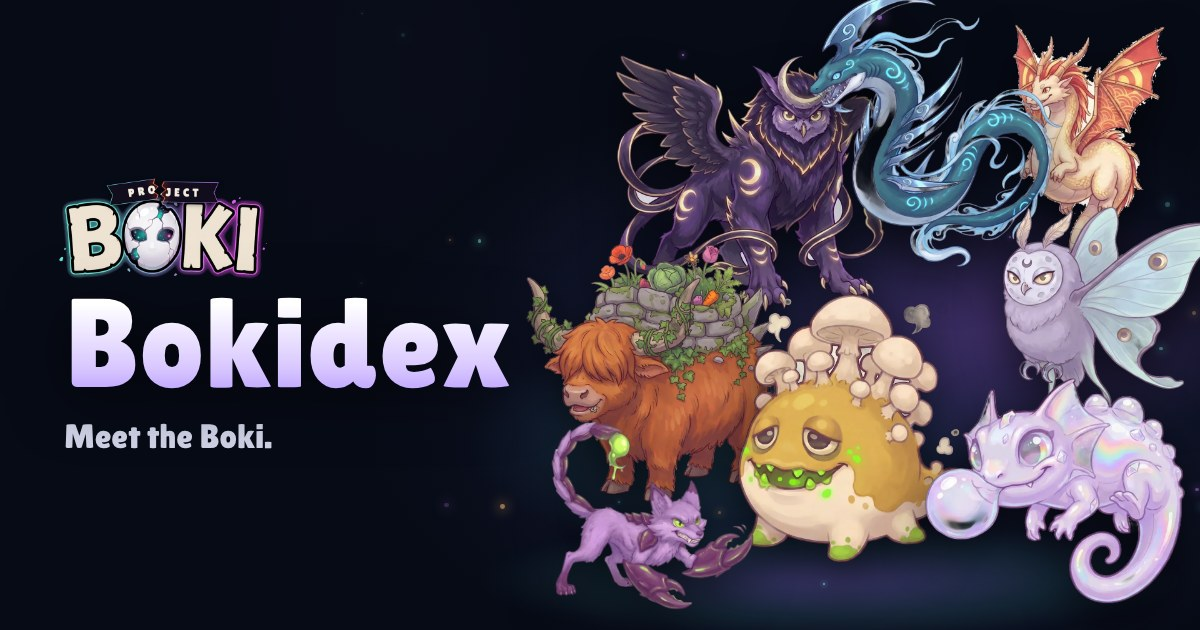
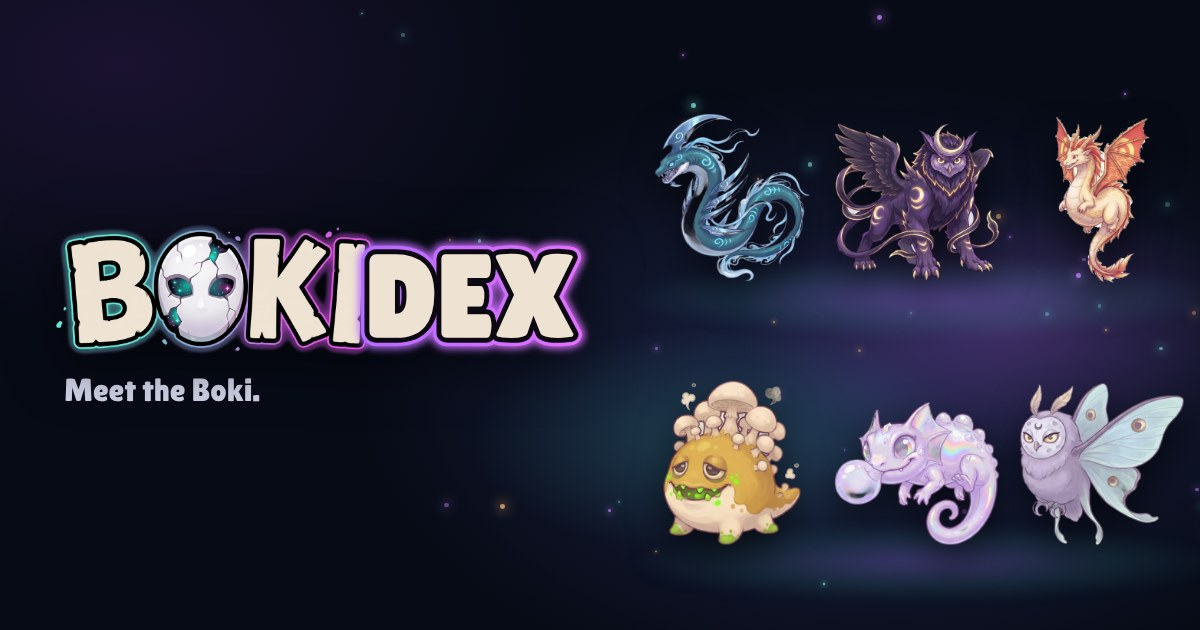
Bokidex share image: BOKIDEX wordmark, clean Boki grid
Claude-Session: https://claude.ai/code/session_015vSSPmpJoF22Rm1LS1od6V

diff --git a/tools/og/bokidex.html b/tools/og/bokidex.html
@@ -9,35 +9,38 @@ html,body{margin:0;background:#070b16}
   radial-gradient(ellipse 30% 26% at 60% 70%, rgba(79,216,203,.20), transparent 70%),
   radial-gradient(ellipse 32% 30% at 84% 52%, rgba(195,107,255,.24), transparent 70%)}
 .em i{position:absolute;border-radius:50%;width:var(--s);height:var(--s);background:rgb(var(--c));box-shadow:0 0 calc(var(--s)*2.4) calc(var(--s)*.5) rgba(var(--c),.6)}
-.ground{position:absolute;left:470px;top:520px;width:720px;height:120px;border-radius:50%;background:radial-gradient(ellipse at center, rgba(160,130,255,.30), rgba(79,216,203,.10) 45%, transparent 70%);filter:blur(6px)}
-.b{position:absolute;filter:drop-shadow(0 18px 22px rgba(0,0,0,.6))}
+.ground{position:absolute;left:620px;width:610px;height:80px;border-radius:50%;background:radial-gradient(ellipse at center, rgba(160,130,255,.30), rgba(79,216,203,.10) 45%, transparent 70%);filter:blur(6px)}
+.cell{position:absolute;width:184px;height:270px;display:flex;align-items:flex-end;justify-content:center}
+.cell img{max-width:100%;max-height:100%;object-fit:contain;filter:drop-shadow(0 16px 18px rgba(0,0,0,.6))}
 .left{position:absolute;left:64px;top:0;bottom:0;display:flex;flex-direction:column;justify-content:center;z-index:5}
-.lock{width:210px;margin:0 0 6px -6px}
-h1{margin:0;font-weight:400;font-size:126px;line-height:.9;letter-spacing:.005em;
-  background:linear-gradient(180deg,#ffffff 15%,#d9c8ff 70%,#b79bff 100%);-webkit-background-clip:text;background-clip:text;color:transparent;
-  filter:drop-shadow(0 10px 30px rgba(0,0,0,.6))}
-.sub{margin-top:16px;font-size:34px;color:#cfd3e6}
-.fade{position:absolute;left:0;top:0;bottom:0;width:560px;background:linear-gradient(90deg,#070b16 45%,rgba(7,11,22,.7) 70%,transparent);z-index:4}
+.lock{position:absolute;left:56px;top:40px;width:120px;z-index:6}
+h1.word{margin:0 0 0 -8px;display:flex;align-items:center;filter:drop-shadow(0 12px 28px rgba(0,0,0,.55))}
+.word .wm{height:134px;width:auto;display:block}
+.word .dex{height:122px;width:auto;margin-left:-16px;margin-top:4px;overflow:visible}
+.sub{margin-top:14px;font-size:32px;color:#cfd3e6}
+.fade{position:absolute;left:0;top:0;bottom:0;width:0;background:linear-gradient(90deg,#070b16 45%,rgba(7,11,22,.7) 70%,transparent);z-index:4}
 </style></head><body>
 <div class="og" id="og">
   <div class="glow"></div>
   <div class="em" id="em"></div>
-  <div class="ground"></div>
-  <!-- back row -->
-  <img class="b" src="../../assets/img/boki-front/eclipsowl-960.webp" style="left:600px;top:40px;width:300px;opacity:.95">
-  <img class="b" src="../../assets/img/boki-front/dragonkite-960.webp" style="left:940px;top:20px;width:300px">
-  <img class="b" src="../../assets/img/boki-front/zephyrak-960.webp" style="left:785px;top:-6px;width:300px">
-  <!-- middle -->
-  <img class="b" src="../../assets/img/boki-front/crofthorn-960.webp" style="left:510px;top:240px;width:290px">
-  <img class="b" src="../../assets/img/boki-front/lunowl-960.webp" style="left:990px;top:200px;width:240px">
-  <!-- front -->
-  <img class="b" src="../../assets/img/boki-front/glomwort-960.webp" style="left:700px;top:290px;width:300px">
-  <img class="b" src="../../assets/img/boki-front/bubblisk-960.webp" style="left:910px;top:340px;width:290px">
-  <img class="b" src="../../assets/img/boki-front/vespox-960.webp" style="left:540px;top:405px;width:225px">
+  <div class="ground" style="top:258px"></div>
+  <div class="ground" style="top:522px"></div>
+  <div class="cell" style="left:640px;top:28px"><img src="../../assets/img/boki-front/zephyrak-960.webp"></div>
+  <div class="cell" style="left:825px;top:28px"><img src="../../assets/img/boki-front/eclipsowl-960.webp"></div>
+  <div class="cell" style="left:1010px;top:28px"><img src="../../assets/img/boki-front/dragonkite-960.webp"></div>
+  <div class="cell" style="left:640px;top:292px"><img src="../../assets/img/boki-front/glomwort-960.webp"></div>
+  <div class="cell" style="left:825px;top:292px"><img src="../../assets/img/boki-front/bubblisk-960.webp"></div>
+  <div class="cell" style="left:1010px;top:292px"><img src="../../assets/img/boki-front/lunowl-960.webp"></div>
   <div class="fade"></div>
   <div class="left">
-    <img class="lock" src="../../assets/img/lockup-640.webp">
-    <h1>Bokidex</h1>
+    <h1 class="word" aria-label="Bokidex"><img class="wm" src="../../assets/img/wordmark-boki-2000.webp"><svg class="dex" viewBox="0 0 300 160" aria-hidden="true">
+      <defs><linearGradient id="dg" x1="0" x2="1"><stop offset="0" stop-color="#b56bff"/><stop offset="1" stop-color="#e070ff"/></linearGradient>
+      <filter id="db" x="-30%" y="-30%" width="160%" height="160%"><feGaussianBlur stdDeviation="5"/></filter></defs>
+      <g font-family="Lilita" font-size="150" stroke-linejoin="round">
+        <g transform="translate(2 138)"><text x="0" y="0" fill="none" stroke="url(#dg)" stroke-width="30" filter="url(#db)" opacity=".85" letter-spacing="2">DEX</text>
+        <text x="0" y="0" fill="none" stroke="url(#dg)" stroke-width="22" letter-spacing="2">DEX</text>
+        <text x="0" y="0" fill="#eee3d2" stroke="#0b0812" stroke-width="13" paint-order="stroke" letter-spacing="2">DEX</text></g>
+      </g></svg></h1>
     <div class="sub">Meet the Boki.</div>
   </div>
 </div>

diff --git a/bokidex/index.html b/bokidex/index.html
@@ -12,11 +12,11 @@
 <meta property="og:url" content="https://projectboki.com/bokidex/">
 <meta property="og:title" content="Bokidex · Project Boki">
 <meta property="og:description" content="Meet the Boki.">
-<meta property="og:image" content="https://projectboki.com/assets/img/og-bokidex.jpg?v=1">
+<meta property="og:image" content="https://projectboki.com/assets/img/og-bokidex.jpg?v=2">
 <meta property="og:image:width" content="1200">
 <meta property="og:image:height" content="630">
 <meta name="twitter:card" content="summary_large_image">
-<meta name="twitter:image" content="https://projectboki.com/assets/img/og-bokidex.jpg?v=1">
+<meta name="twitter:image" content="https://projectboki.com/assets/img/og-bokidex.jpg?v=2">
 <link rel="icon" href="/favicon.ico" sizes="any">
 <link rel="stylesheet" href="https://fonts.googleapis.com/css2?family=Lilita+One&family=Inter:wght@400;500;600;700;800&family=JetBrains+Mono:wght@500;700&display=swap">
 <script>/* theme: saved choice, else whatever the host set, else the OS setting. Set before first paint. */
